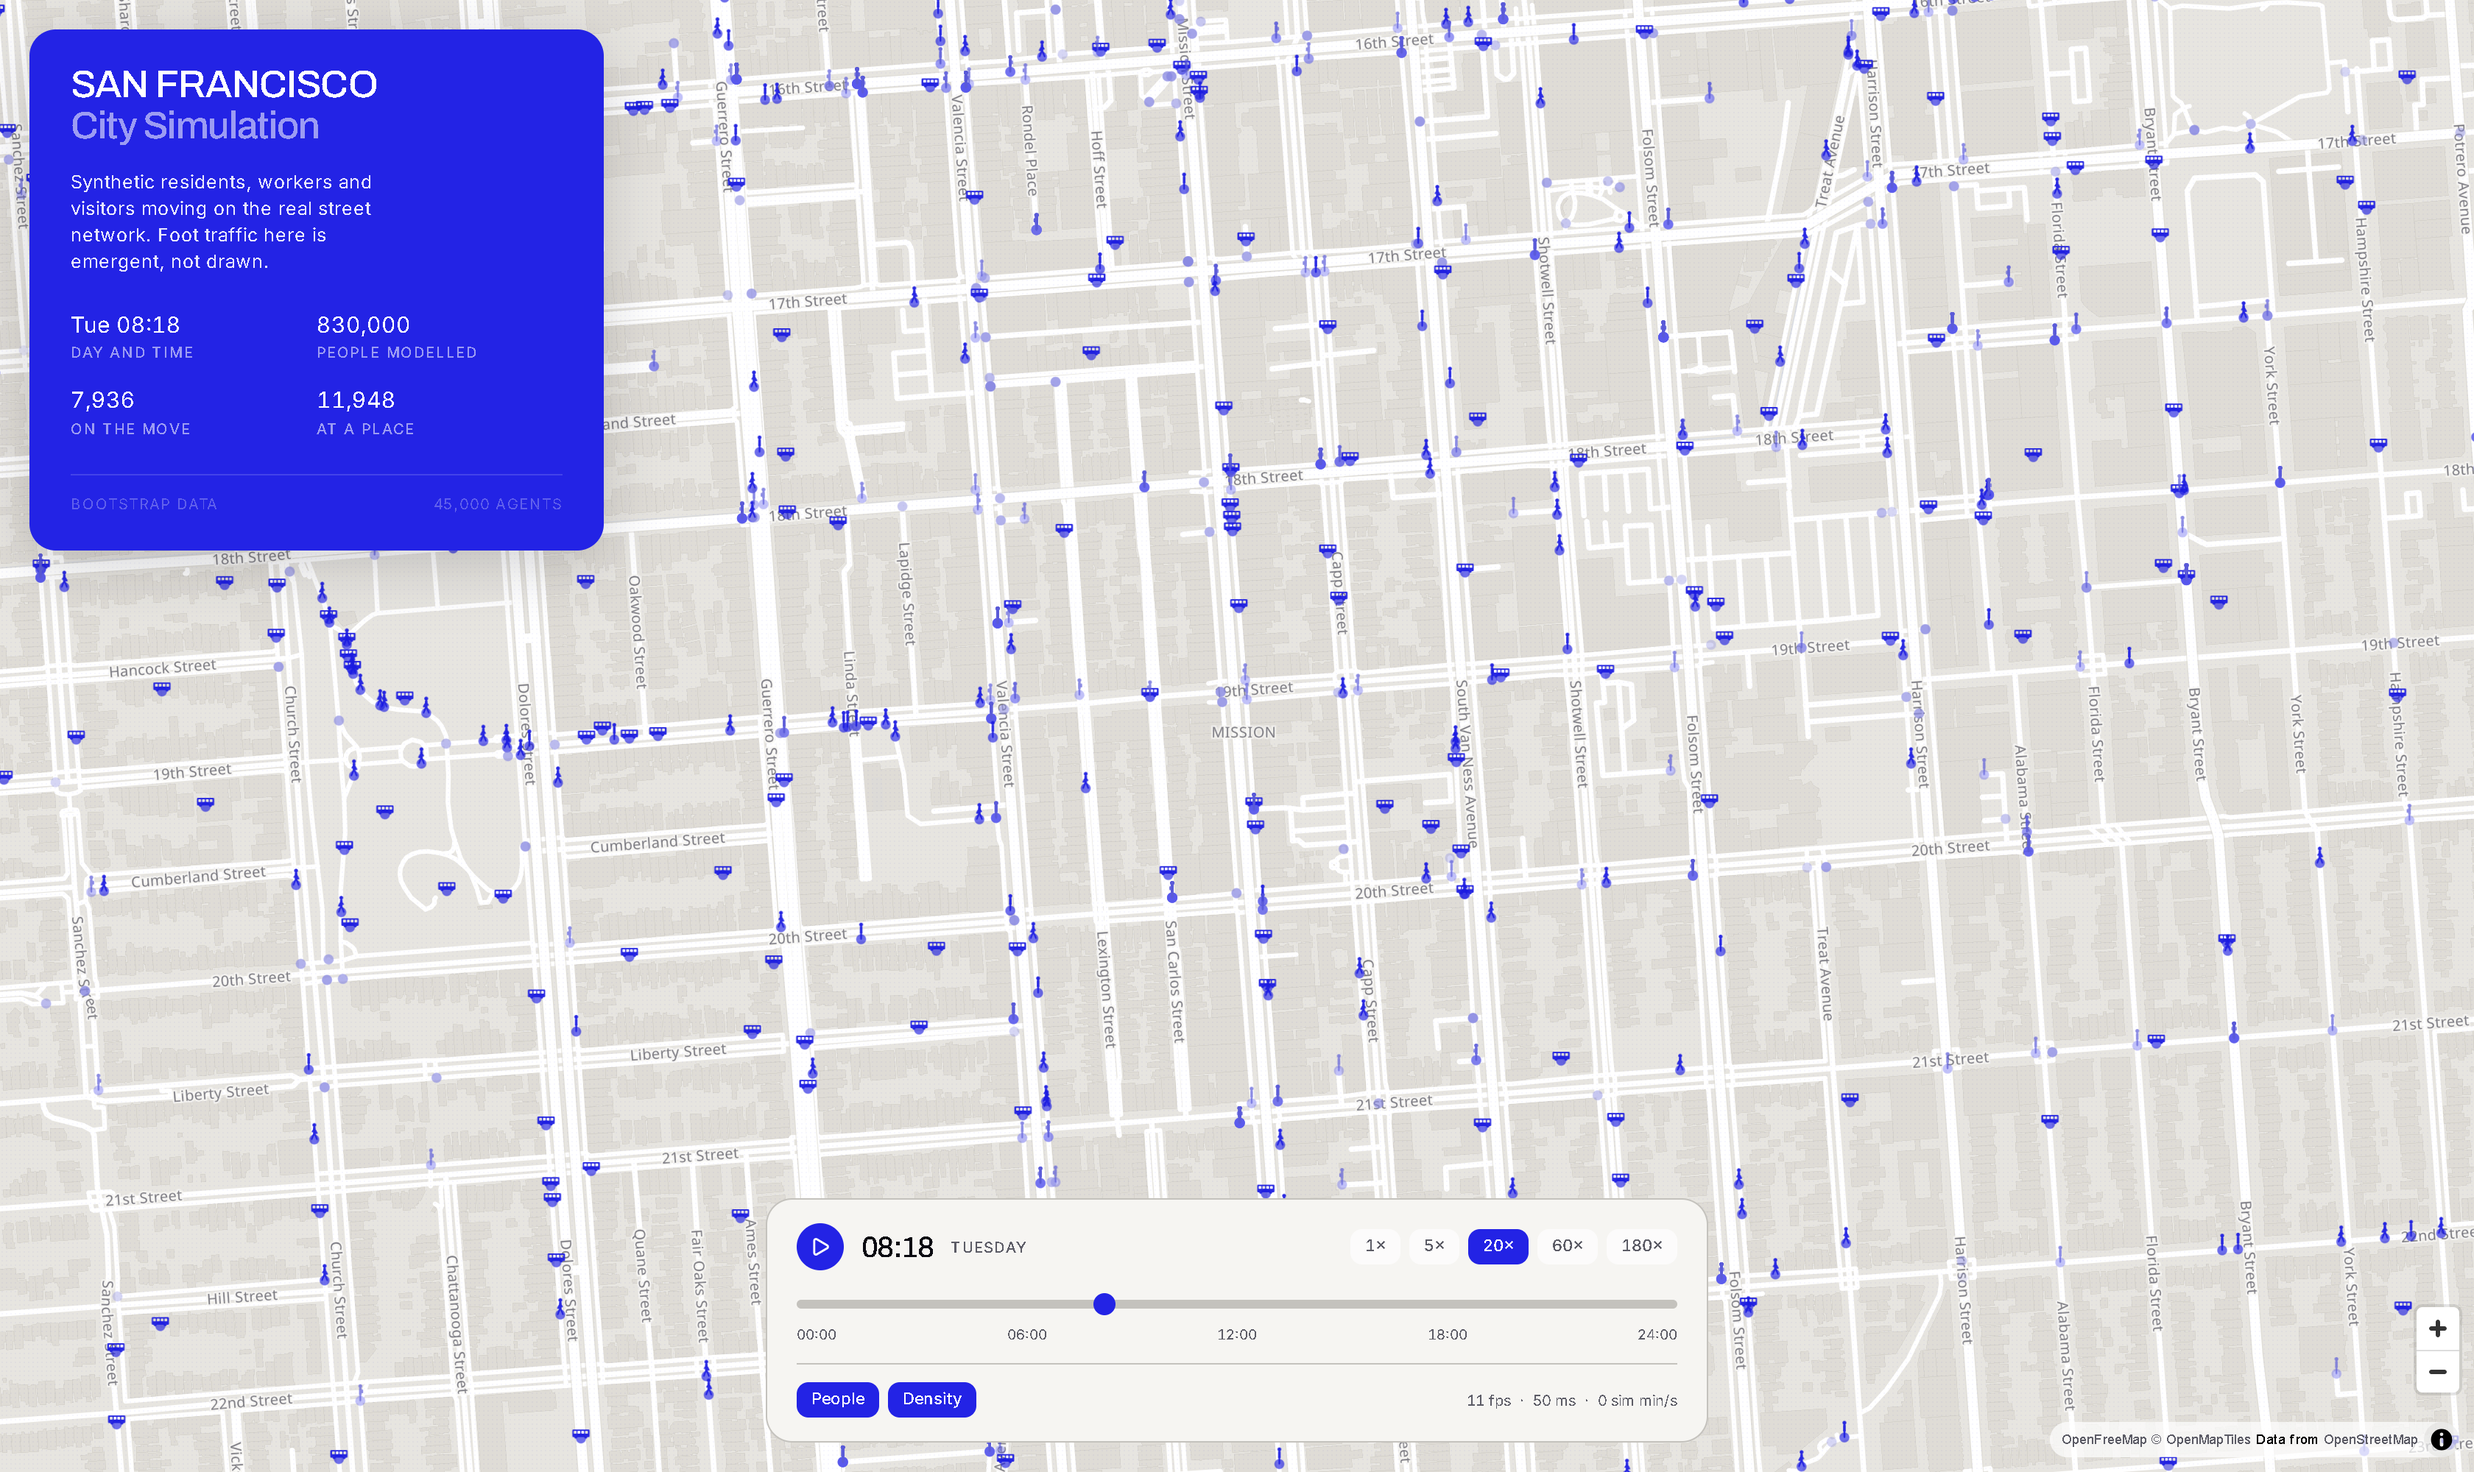
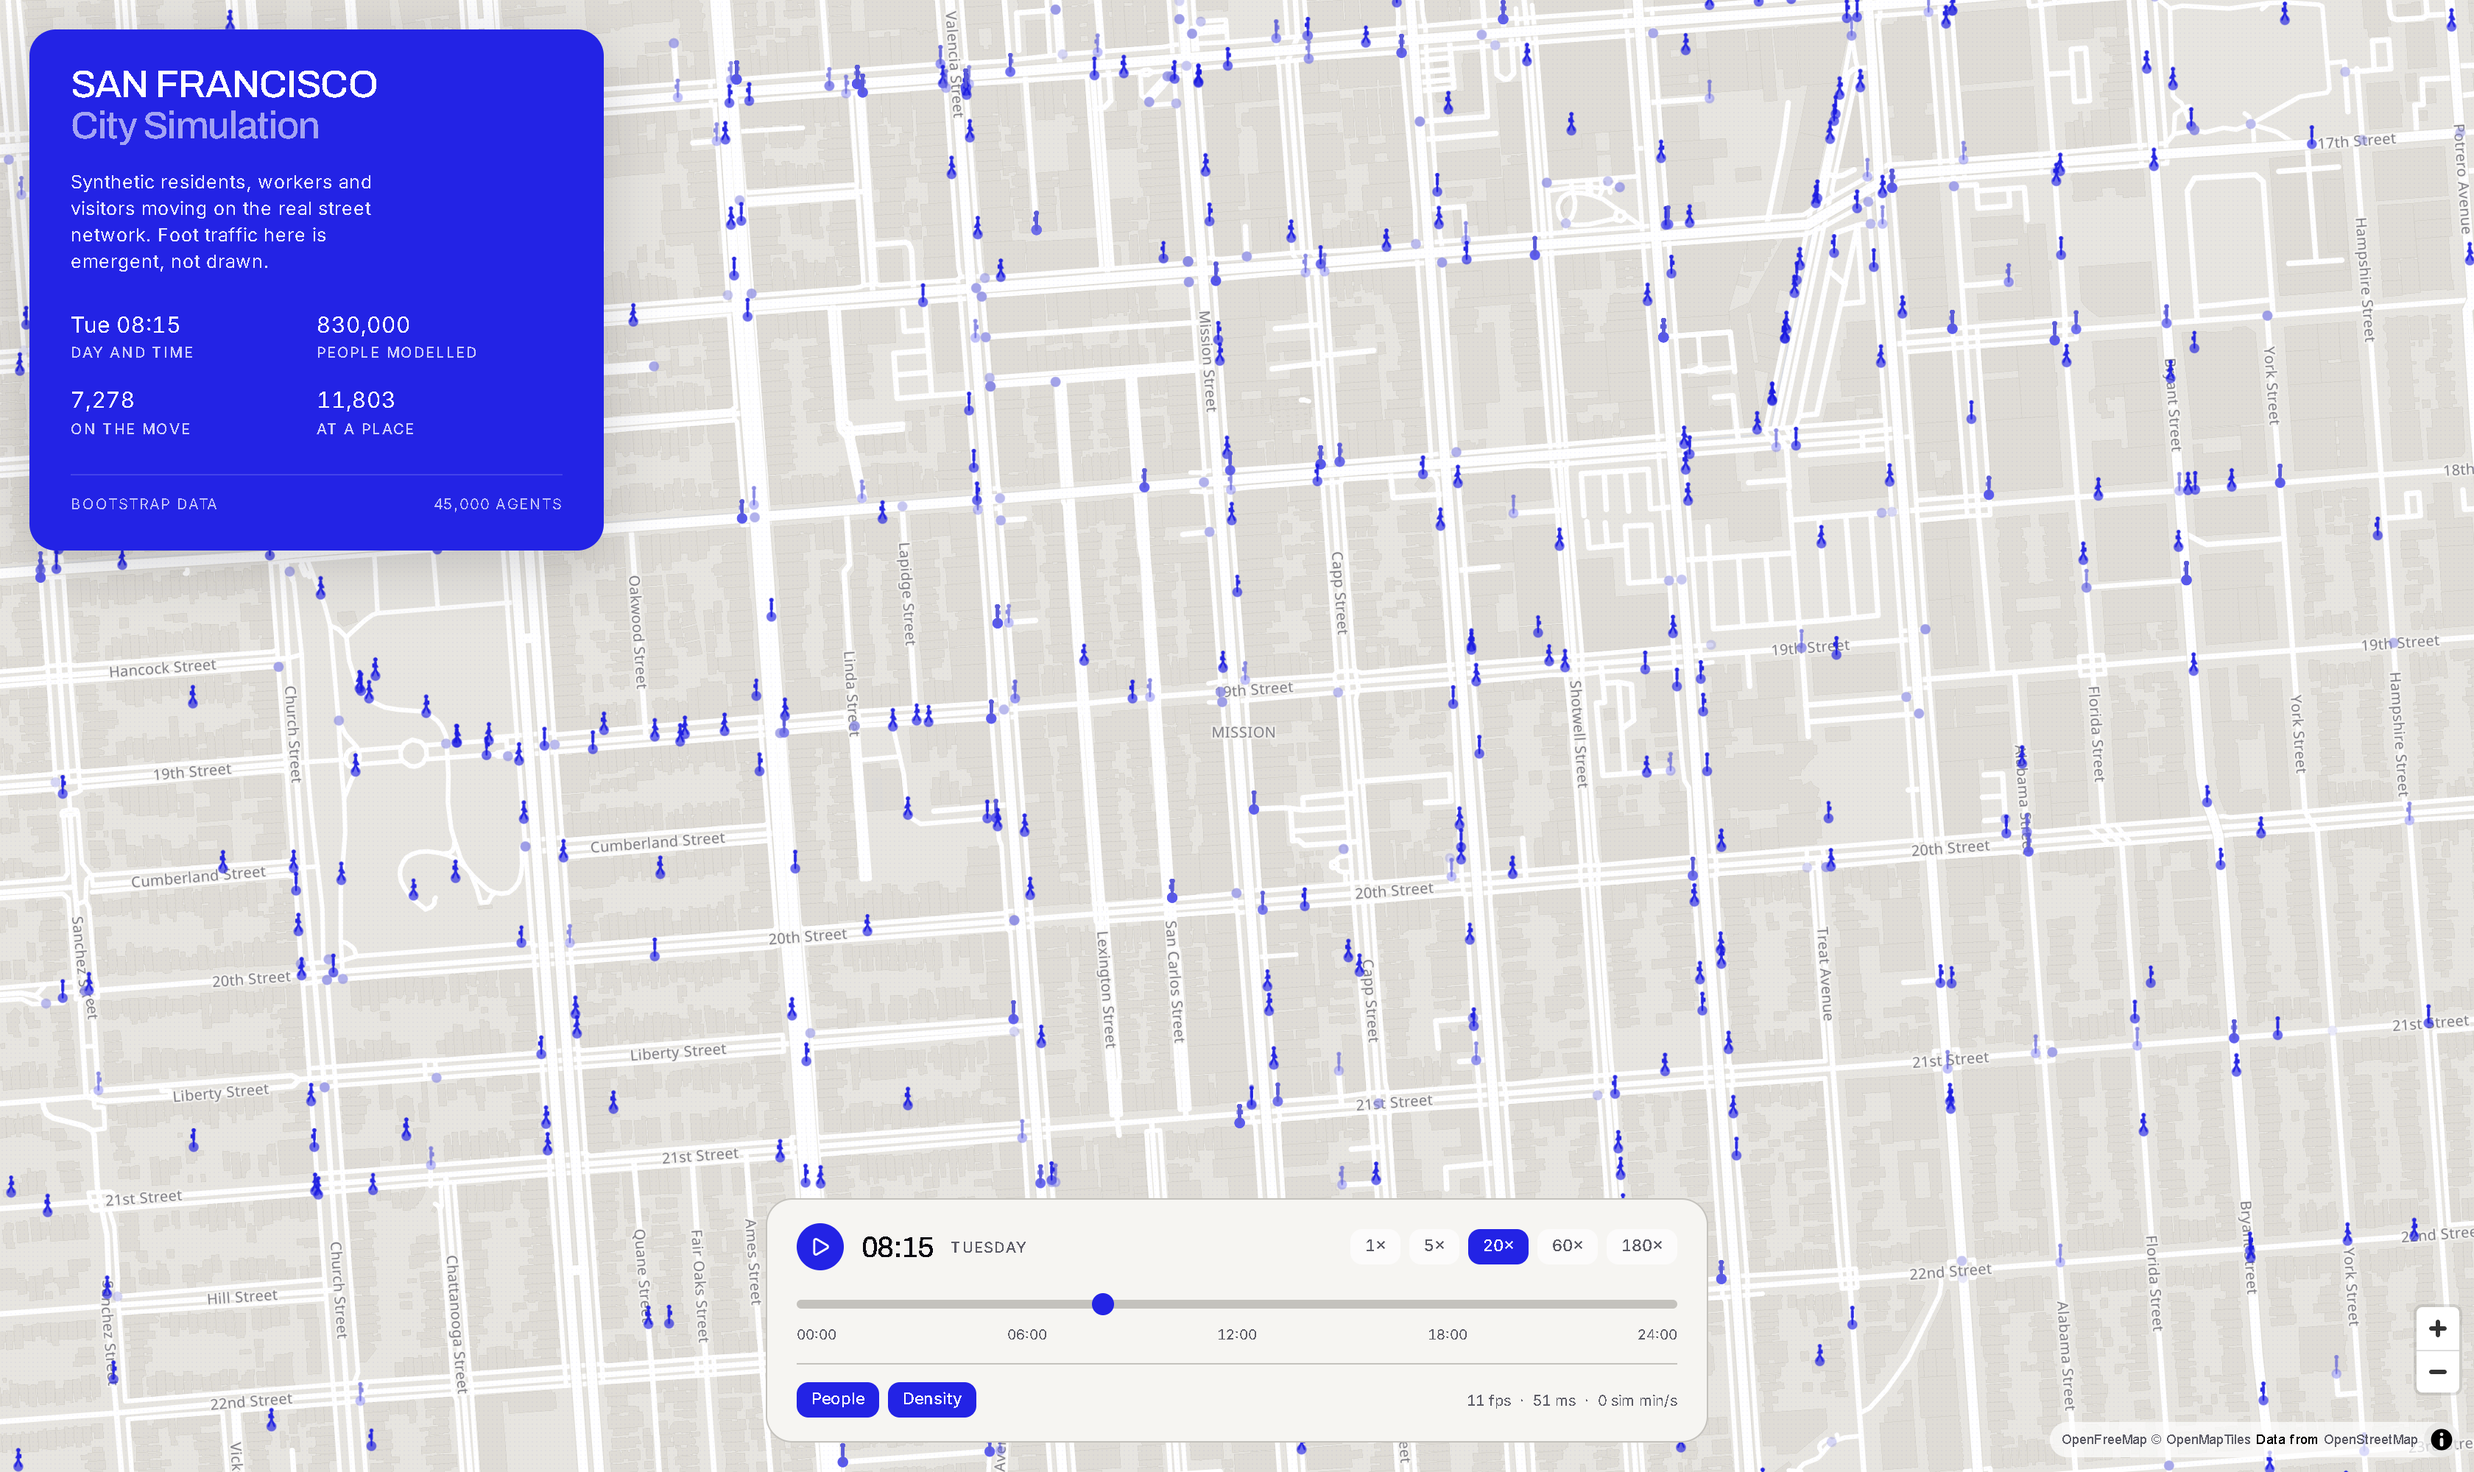
Draw transit riders as people, raise secondary text to AA contrast
One bus per transit rider put thousands of buses on residential streets. The
model has no transit vehicles of its own, so riders are drawn as individuals.
White at 55 percent over the card blue measured 3.47:1; body-size secondary
text is now 5.69:1.

diff --git a/apps/web/src/map/sprites.ts b/apps/web/src/map/sprites.ts
@@ -27,7 +27,7 @@ export interface SpriteAtlas {
 export const SPRITE_ZOOM = 14.9;
 
 /** Above this many on-screen figures, the view is a crowd and dots read better. */
-const MAX_SPRITES = 4000;
+const MAX_SPRITES = 2500;
 
 /** Walk cycles per simulated minute of travel. */
 const CYCLES_PER_SECOND = 1.35;
@@ -87,7 +87,12 @@ export function iconNameFor(
   const facing = angleDegrees > 90 && angleDegrees < 270 ? 'l' : 'r';
   const mode = modeOf(packedSegment);
 
-  if (mode === TravelMode.Transit) return `bus_${Math.floor(seconds * 4) % 2}_${facing}`;
+  // A car or a bicycle carries the one person it is drawn for, so those icons
+  // are literally true. A bus is not: transit riders are individuals, and this
+  // model has no vehicles of its own - riders move along street geometry at a
+  // transit speed. Drawing one bus per rider put thousands of buses on
+  // residential streets, so riders are drawn as the people they are. Real
+  // vehicles need the regional GTFS feed, which is not wired up yet.
   if (mode === TravelMode.Car) return `car_${Math.floor(seconds * 6) % 2}_${facing}`;
   if (mode === TravelMode.Bike) return `bike_${Math.floor(seconds * 5) % 2}_${facing}`;
 

diff --git a/apps/web/src/map/MapView.tsx b/apps/web/src/map/MapView.tsx
@@ -278,7 +278,7 @@ export function MapView() {
               pickable: false,
               updateTriggers: {
                 getPosition: interpolator.revision,
-                getIcon: Math.floor(seconds * 12),
+                getIcon: Math.floor(seconds * 8),
                 getColor: interpolator.revision,
               },
             }),
